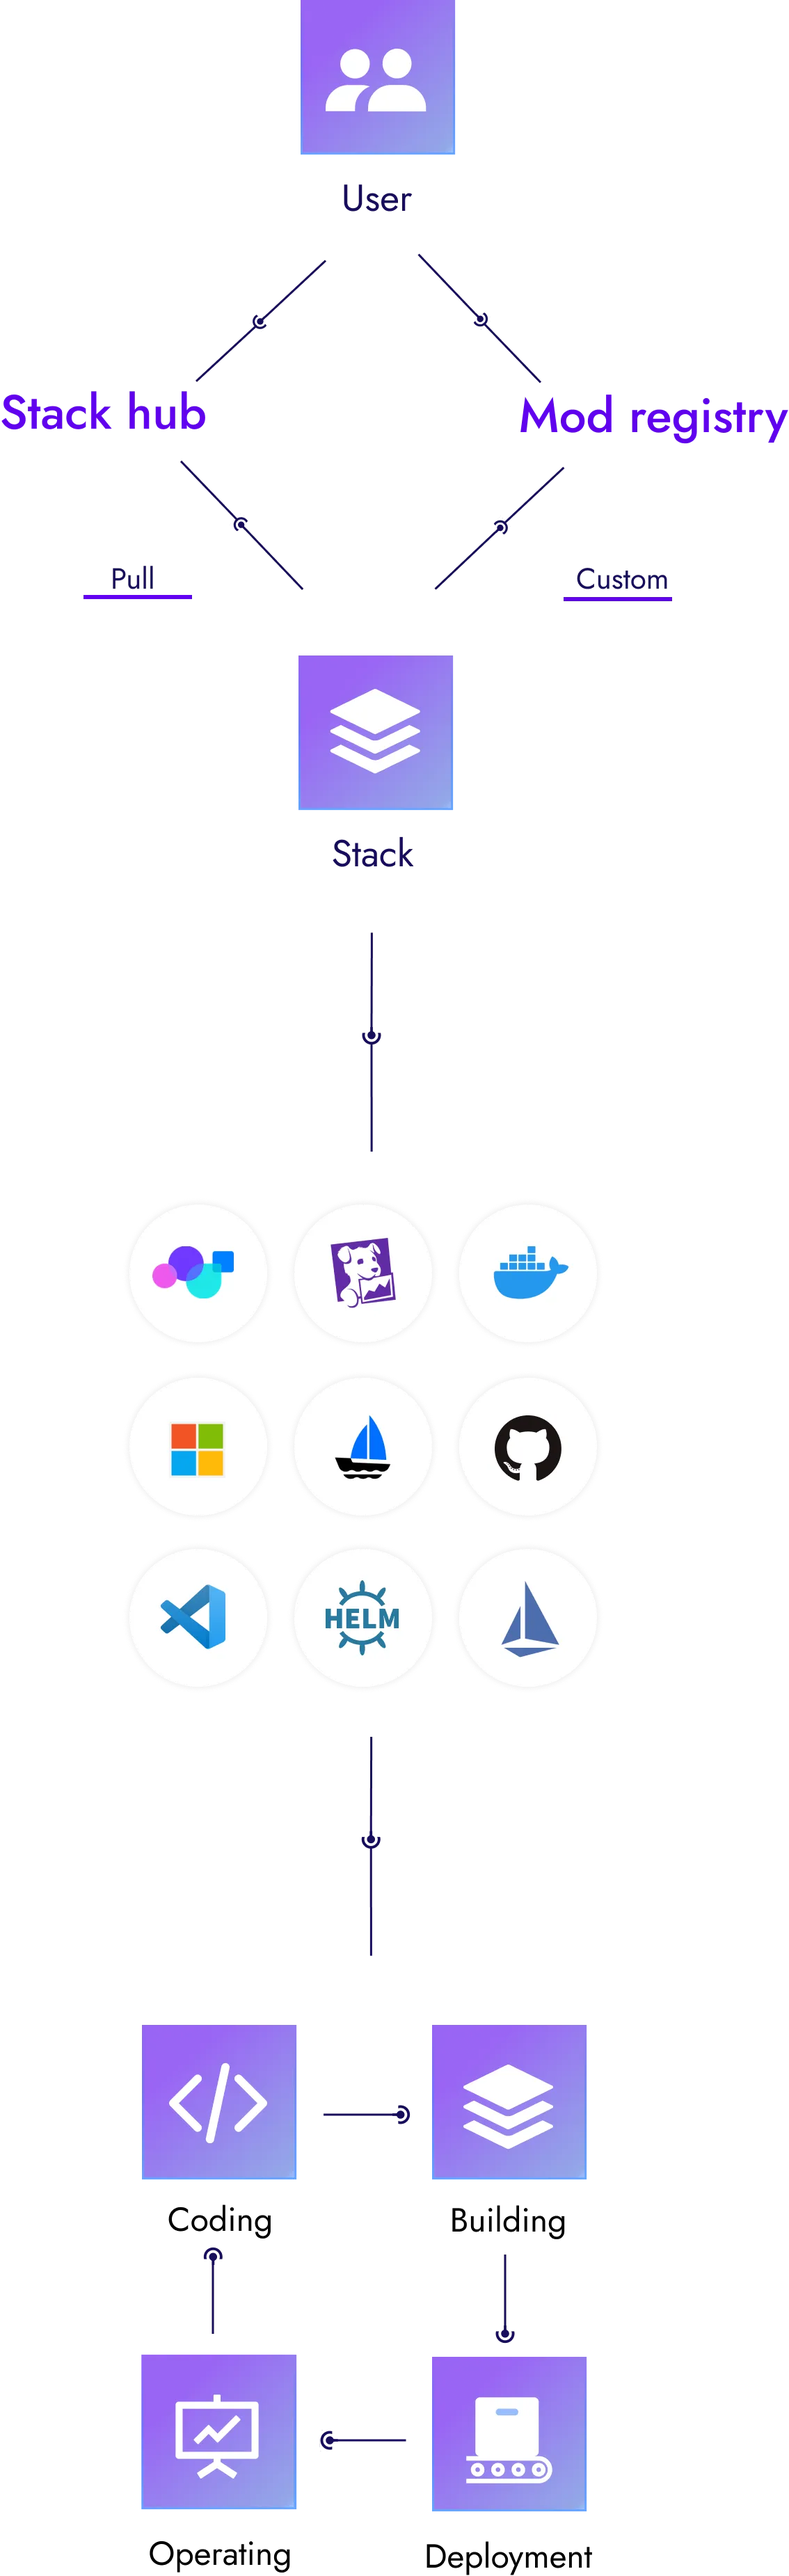
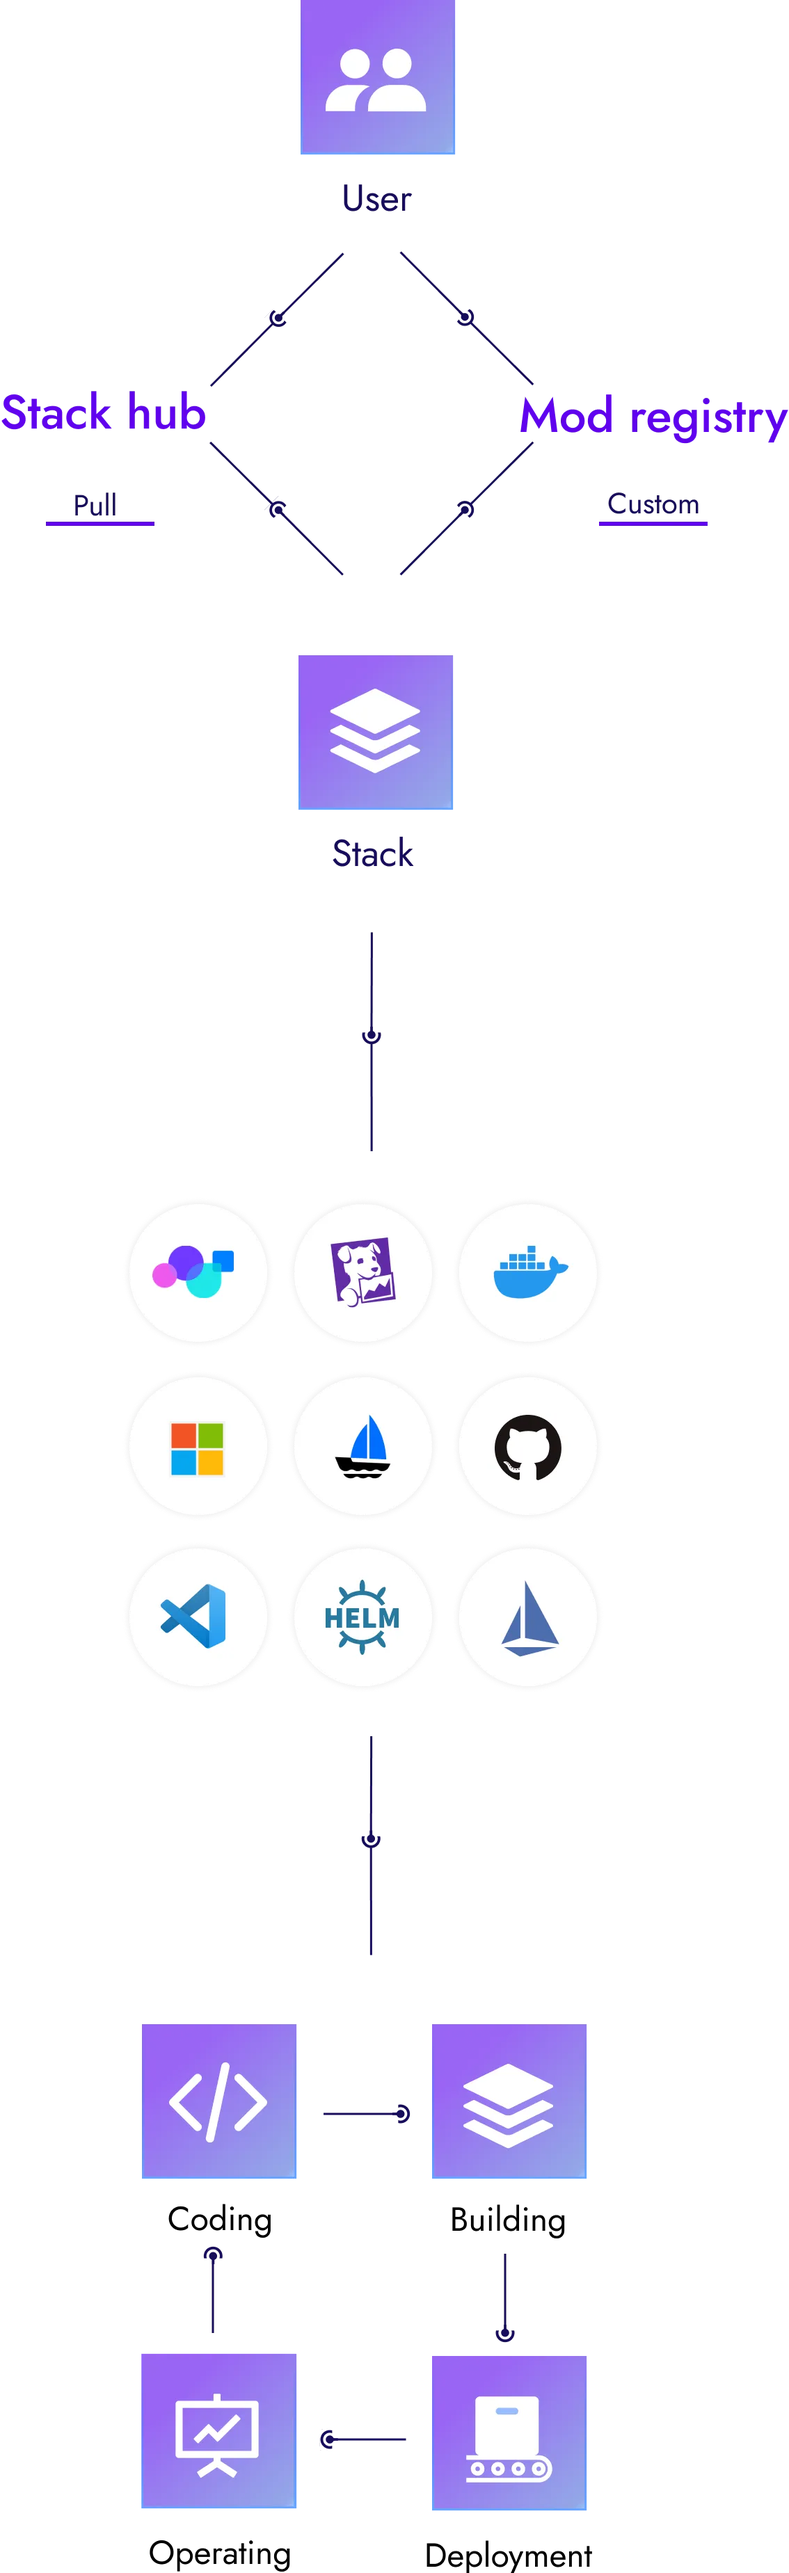
Refactor: workflow responsible

diff --git a/src/components/homepage/StackWorkflow/index.module.scss b/src/components/homepage/StackWorkflow/index.module.scss
@@ -12,6 +12,10 @@
   color: #080930;
 }
 
+.workflowImage {
+  margin-top: 9px;
+}
+
 .workflowImage img {
   width: 405px;
 }
@@ -24,8 +28,8 @@
 }
 
 .separator {
-  margin-top: 0px;
-  margin-left: 140px;
+  margin-top: 10px;
+  margin-left: 157px;
   margin-right: 140px;
   display: flex;
   flex-direction: column;
@@ -34,18 +38,6 @@
   justify-content: flex-start;
 }
 
-.workflow li {
-  list-style: none;
-}
-
-@media screen and (max-width: 996px) {
-  .separator, .workflowText {
-    display: none;
-  }
-  .workflow {
-    padding: 0 var(--ifm-spacing-horizontal);
-  }
-}
 
 .workflowSteps {
   padding: 0;
@@ -73,8 +65,9 @@
 }
 
 .line {
+  margin-top: -1px;
   width: 0px;
-  height: 470px;
+  height: 506px;
   border-style: solid;
   border-color: #b794f6;
   border-width: 1px;
@@ -104,5 +97,37 @@
 .stepWrap .terminal{
   :global(.asciinema-terminal *){
     font-family: sans-serif;
+  }
+}
+
+@media screen and (max-width: 1400px) {
+  .separator {
+    margin-left: 87px;
+    margin-right: 70px;
+  }
+}
+
+@media screen and (max-width: 1200px) {
+  .separator {
+    margin-left: 15px;
+    margin-right: 15px;
+  }
+}
+
+.workflow li {
+  list-style: none;
+}
+
+@media screen and (max-width: 996px) {
+  .stepsWrap {
+    display: none;
+  }
+
+  .separator {
+    display: none;
+  }
+
+  .workflow {
+    padding: 0 var(--ifm-spacing-horizontal);
   }
 }
